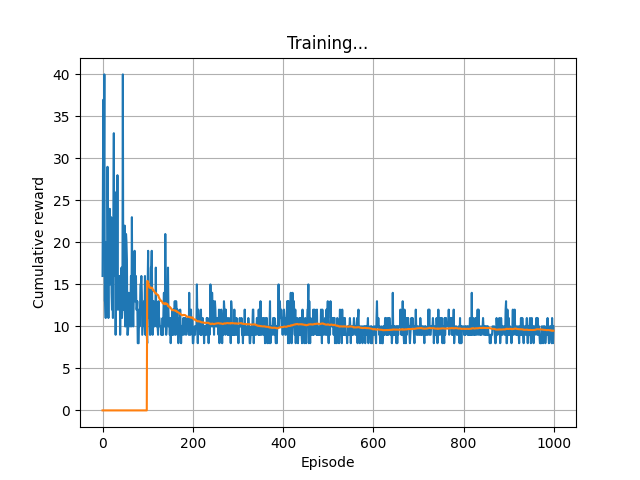
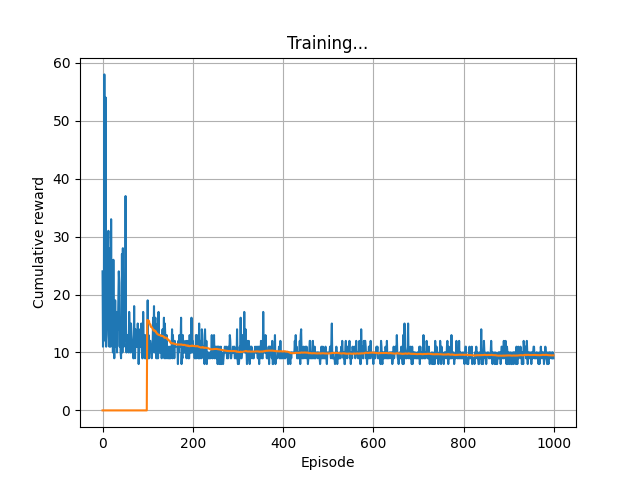
Ex4: plot for task 1a created

diff --git a/exercise-4/rbf_agent.py b/exercise-4/rbf_agent.py
@@ -49,10 +49,11 @@ class Agent(object):
         if len(state.shape) == 1:
             state = state.reshape(1, -1)
         # Task 1a: DONE: Use (s, abs(s)) as features
-        # return [np.array([sample, np.abs(sample)]).flatten() for sample in self.scaler.transform(state)]
+        scaled_state = self.scaler.transform(state)
+        return np.array([np.array([sample, np.abs(sample)]).flatten() for sample in scaled_state])
 
         # Task 1b: RBF features
-        return self.featurizer.transform(self.scaler.transform(state))
+        # return self.featurizer.transform(self.scaler.transform(state))
 
     def get_action(self, state, epsilon=0.0):
         if np.random.random() < epsilon:
